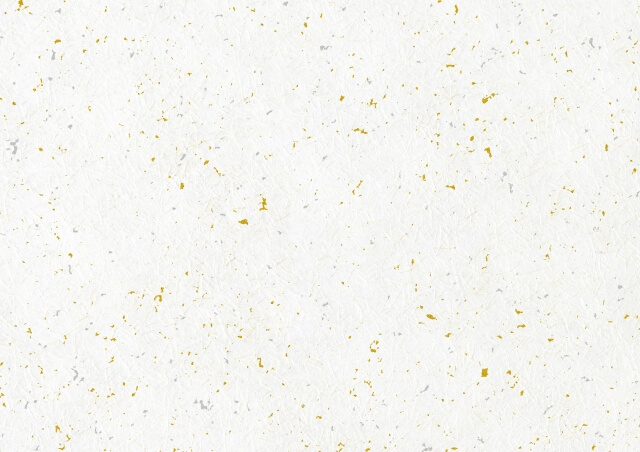
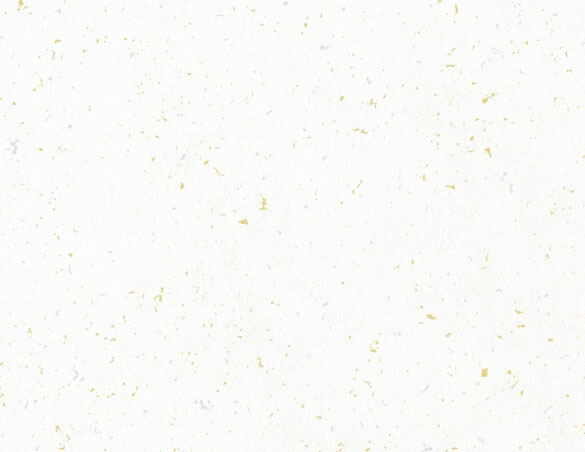
背景画像の変更、不要な画像の削除、スマホのはみだしを修正、おみくじカードのサイズをそろえるために空白をいれる

diff --git a/index.html b/index.html
@@ -42,8 +42,8 @@
     <div class="l-content">
       <img src="./images/img02.png" alt="3匹の牛の後ろ姿">
       <p class="twitter_share">
-        <a href="http://twitter.com/share?url=https://projects.shibajuku.net/nenga/2021/" rel="nofollow"
-          target="_blank">Twitterで共有</a>
+        <a href="http://twitter.com/share?text=Shibajuku%E5%B9%B4%E8%B3%80%E3%82%B5%E3%82%A4%E3%83%882021&url=https://projects.shibajuku.net/nenga/2021/"
+          rel="nofollow" target="_blank">Twitterで共有</a>
       </p>
     </div>
     <footer>

diff --git a/common.css b/common.css
@@ -223,8 +223,7 @@ strong {
 
 @media screen and (max-width: 767px) {
   .l-content {
-    width: 100%;
-    padding: 0 3%;
+    width: 94%;
   }
 }
 
@@ -302,8 +301,7 @@ footer .l-bar {
 
 .l-omikuji {
   background-image: url(./images/bg-washi.jpg);
-  background-size: cover;
-  background-position: center center;
+  background-position: center top;
   margin: 60px 0;
   padding: 60px 0;
 }

diff --git a/common.scss b/common.scss
@@ -17,8 +17,7 @@
   text-align: center;
 
   @include sp {
-    width: 100%;
-    padding: 0 3%;
+    width: 94%;
   }
 
 }
@@ -94,8 +93,7 @@ footer .l-bar {
 
 .l-omikuji {
   background-image: url(./images/bg-washi.jpg);
-  background-size: cover;
-  background-position: center center;
+  background-position: center top;
   margin: 60px 0;
   padding: 60px 0;
 

diff --git a/app.js b/app.js
@@ -1,6 +1,6 @@
 // 配列
 var results = [
-  '大吉', '中吉', '小吉', '吉', '凶'
+  '大吉', '中吉', '小吉', '吉　', '凶　'
 ];
 
 // 要素の取得
